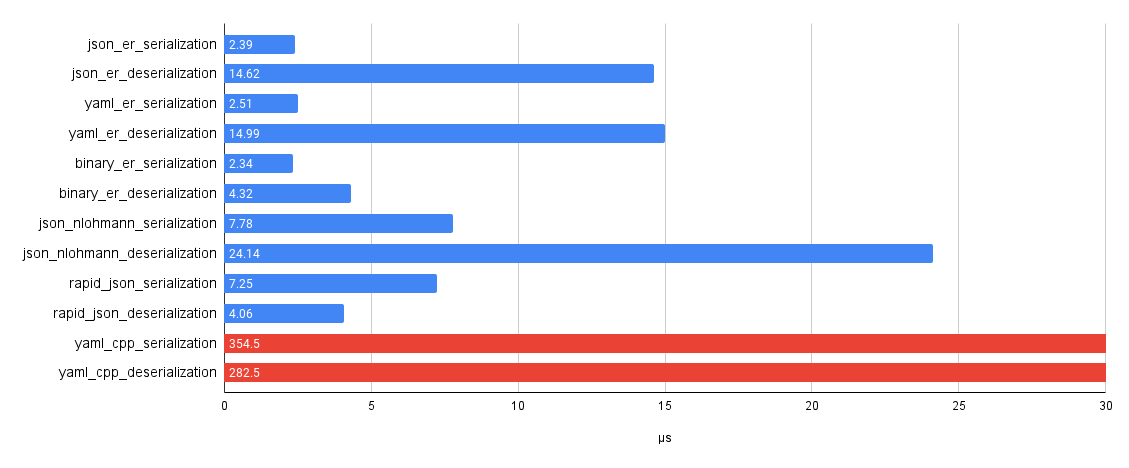
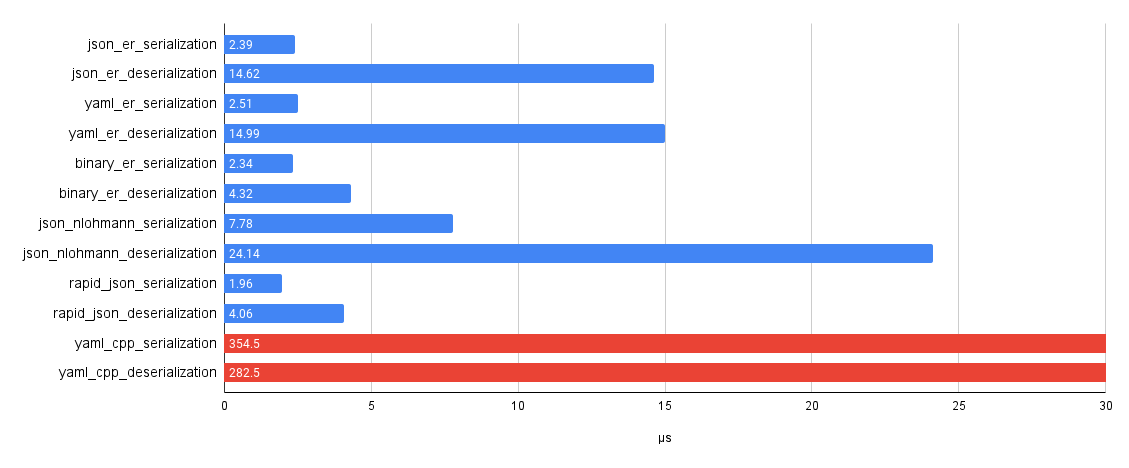
Update README.md

Changed region(s): [[0.248, 0.5684, 0.403, 0.6282]]

diff --git a/README.md b/README.md
@@ -20,13 +20,16 @@ It makes possible determine a variable type and do right job - print, serialize/
 
 At first you have to download and compile <b>Clang</b>. The generator as a part of this project uses Clang to analyse C++ source code. You can build Clang [from source](https://clang.llvm.org/docs/LibASTMatchersTutorial.html), install from [vcpkg](https://github.com/microsoft/vcpkg) or from repositories of your distro. Please pay attention to ```generator/CMakeLists.txt```, it's fit for LLVM and Clang libraries from <b>Ubuntu</b> or <b>Arch Linux</b> repos or built from source with options:
 ```
+-DLLVM_ENABLE_PROJECTS=clang
 -DLLVM_LINK_LLVM_DYLIB=ON
 -DCLANG_LINK_CLANG_DYLIB=ON
 -DLLVM_ENABLE_RTTI=ON
 ```
 change the file if needed.
 
-> <b>Note:</b> Compile Clang from sources takes <b>A LOT</b> of time, literally hours with freezes and fails on average laptop, think about using precompiled libs from your distro.
+> <b>Note:</b> ```-DLLVM_LINK_LLVM_DYLIB=ON``` is not available on Windows, only static libraries
+
+> <b>Note:</b> Compile Clang from sources takes <b>A LOT</b> of time, think about using precompiled libs from your distro.
 
 > <b>Note:</b> If you faced errors like ```stddef.h``` or ```stdarg.h``` not found, check include folders, perhaps you need few symlinks. It's quite old problem and easy to google. Do not ignore them, it would lead to analysis errors e.g. missed template parents of an analyzed class.
 
@@ -36,13 +39,7 @@ The next step is update all submodules<br>
 git submodule update --init --recursive
 ```
 
-One of the submodules is [vcpkg](https://github.com/microsoft/vcpkg) which manages most of the dependencies and it should be prepared first:
-
-```shell
-vcpkg/bootstrap-vcpkg.sh
-```
-
-All other dependencies will be installed by CMake automatically.
+One of the submodules is [vcpkg](https://github.com/microsoft/vcpkg) which manages most of the dependencies all of them will be installed by CMake automatically.
 
 > <b>Note:</b> The project version is obtaining by ```python3``` from ```vcpkg.json``` manifest file. It will be installed at least as <b>gcc</b> dependency, otherwise please install it manually.
 
@@ -168,7 +165,8 @@ Please see ```example/main.cpp``` for more details.
 I am still working on optimization of serialization and deserialization. But even now it is quite fast. The repository includes ```benchmarks``` folder, feel free to check it on your own hardware.
 
 JSON on average <b>Core i7</b> laptop is faster then [nlohmann json](https://github.com/nlohmann/json) in both serialization and deserialization.
-Twice faster then [rapid json](https://github.com/Tencent/rapidjson) in serialization but three times slower in deserialization.
+
+Slower than [rapid json](https://github.com/Tencent/rapidjson) but still fast.
 
 YAML is blazingly faster then [yaml-cpp](https://github.com/jbeder/yaml-cpp), if I did the benchmark right.
 
